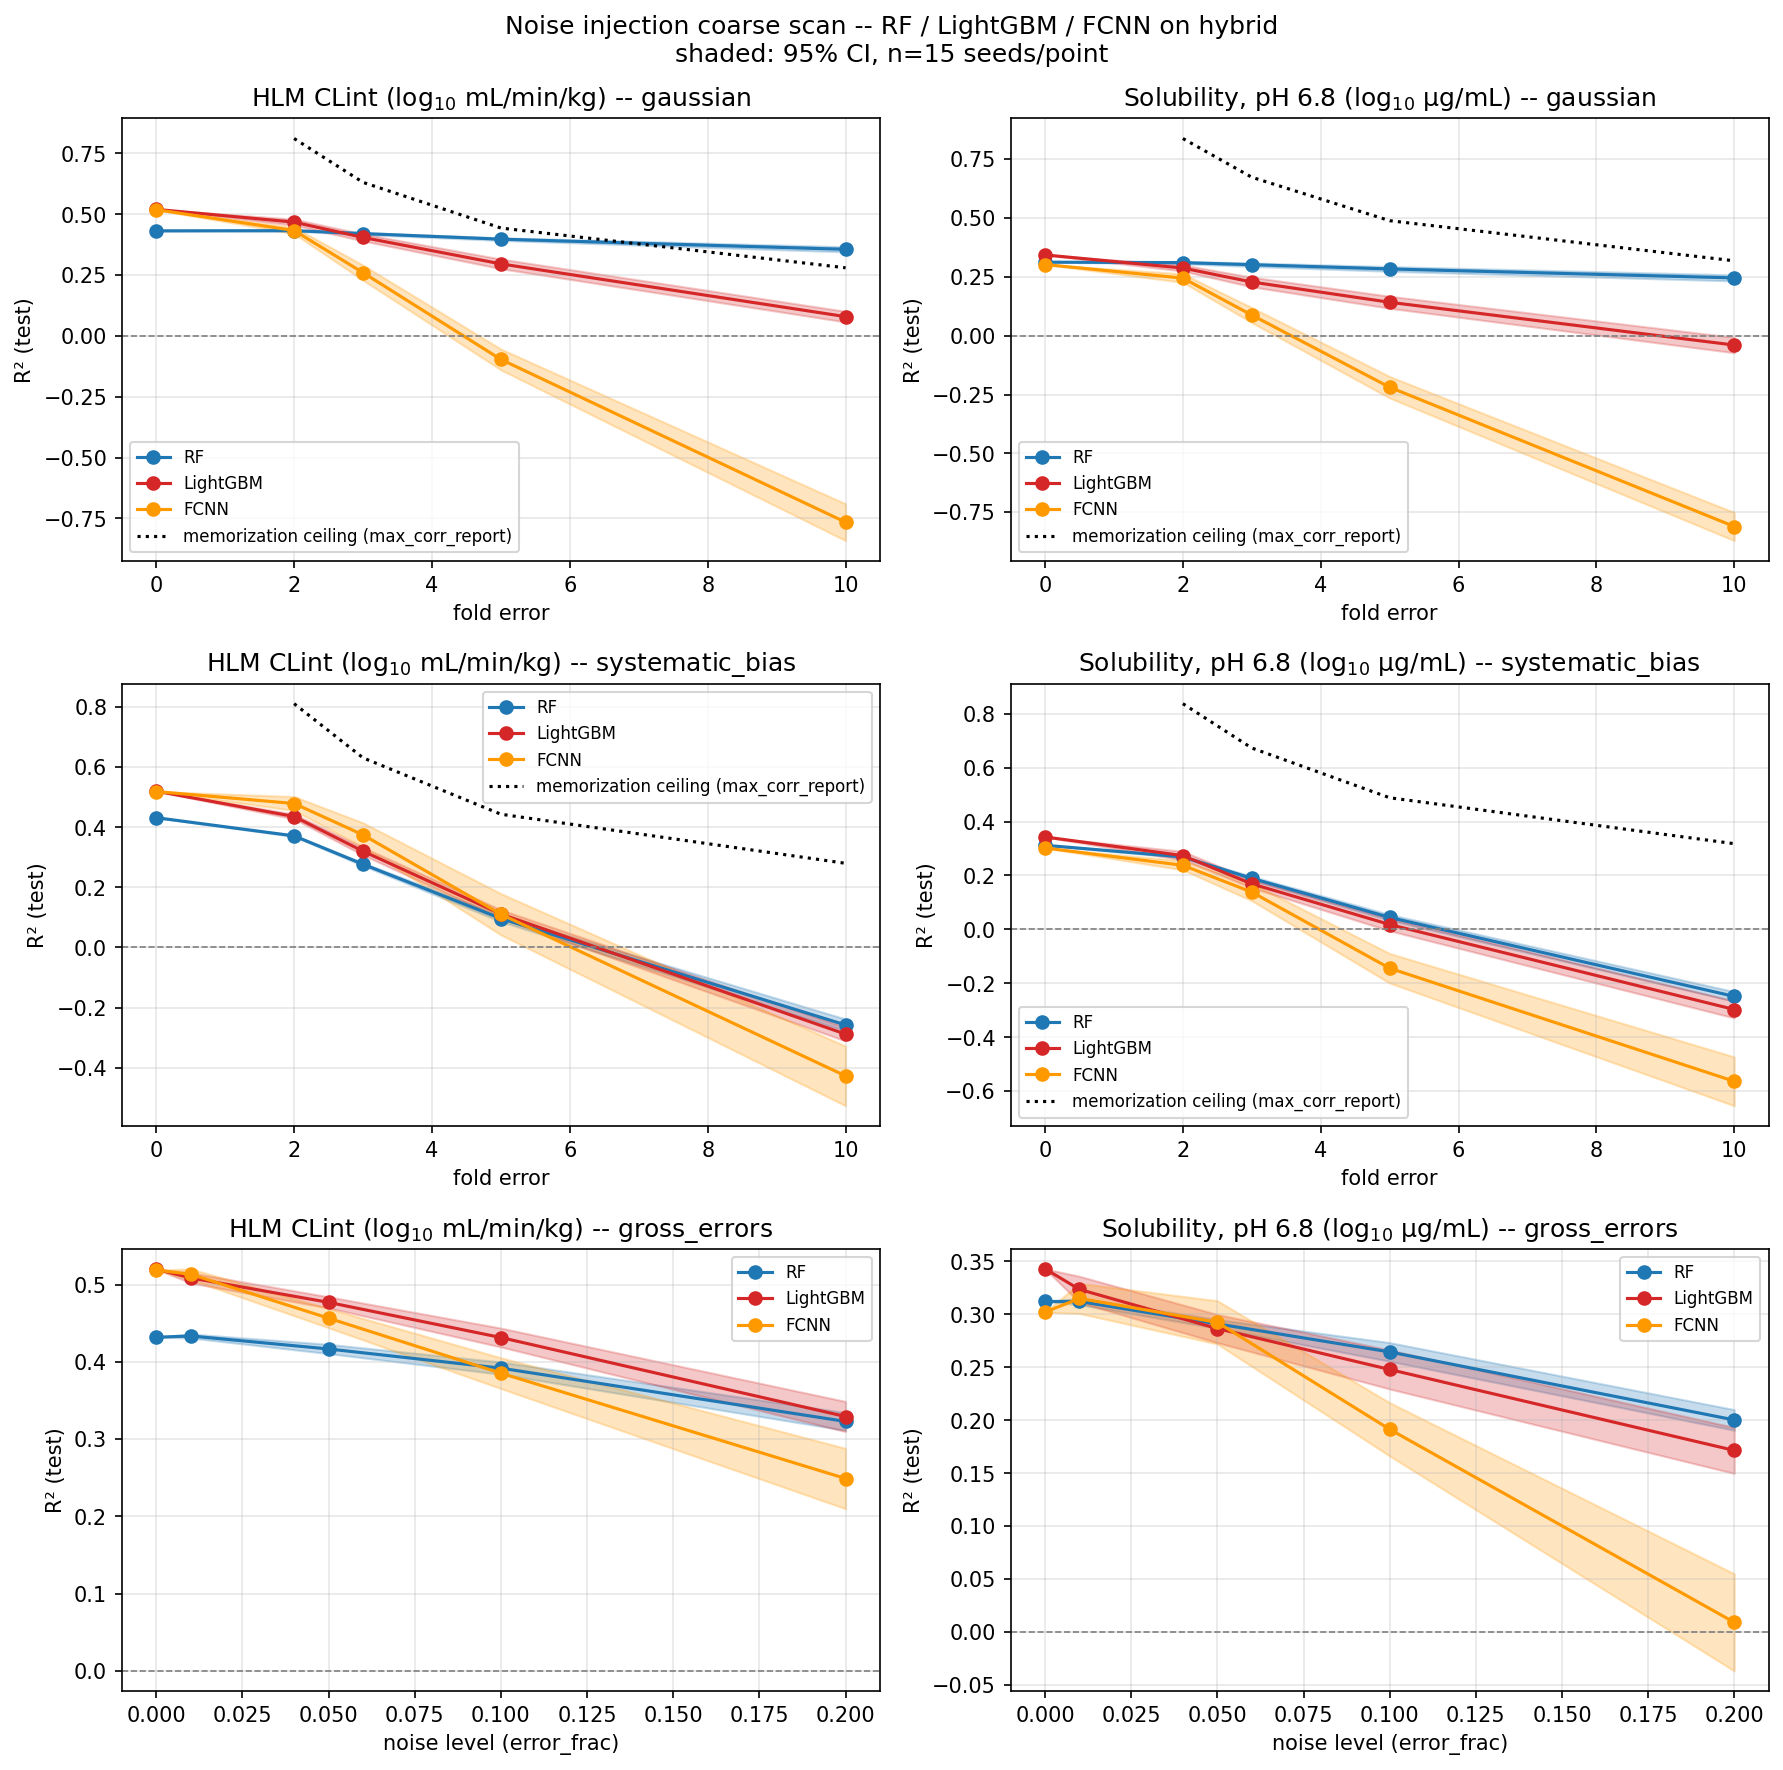
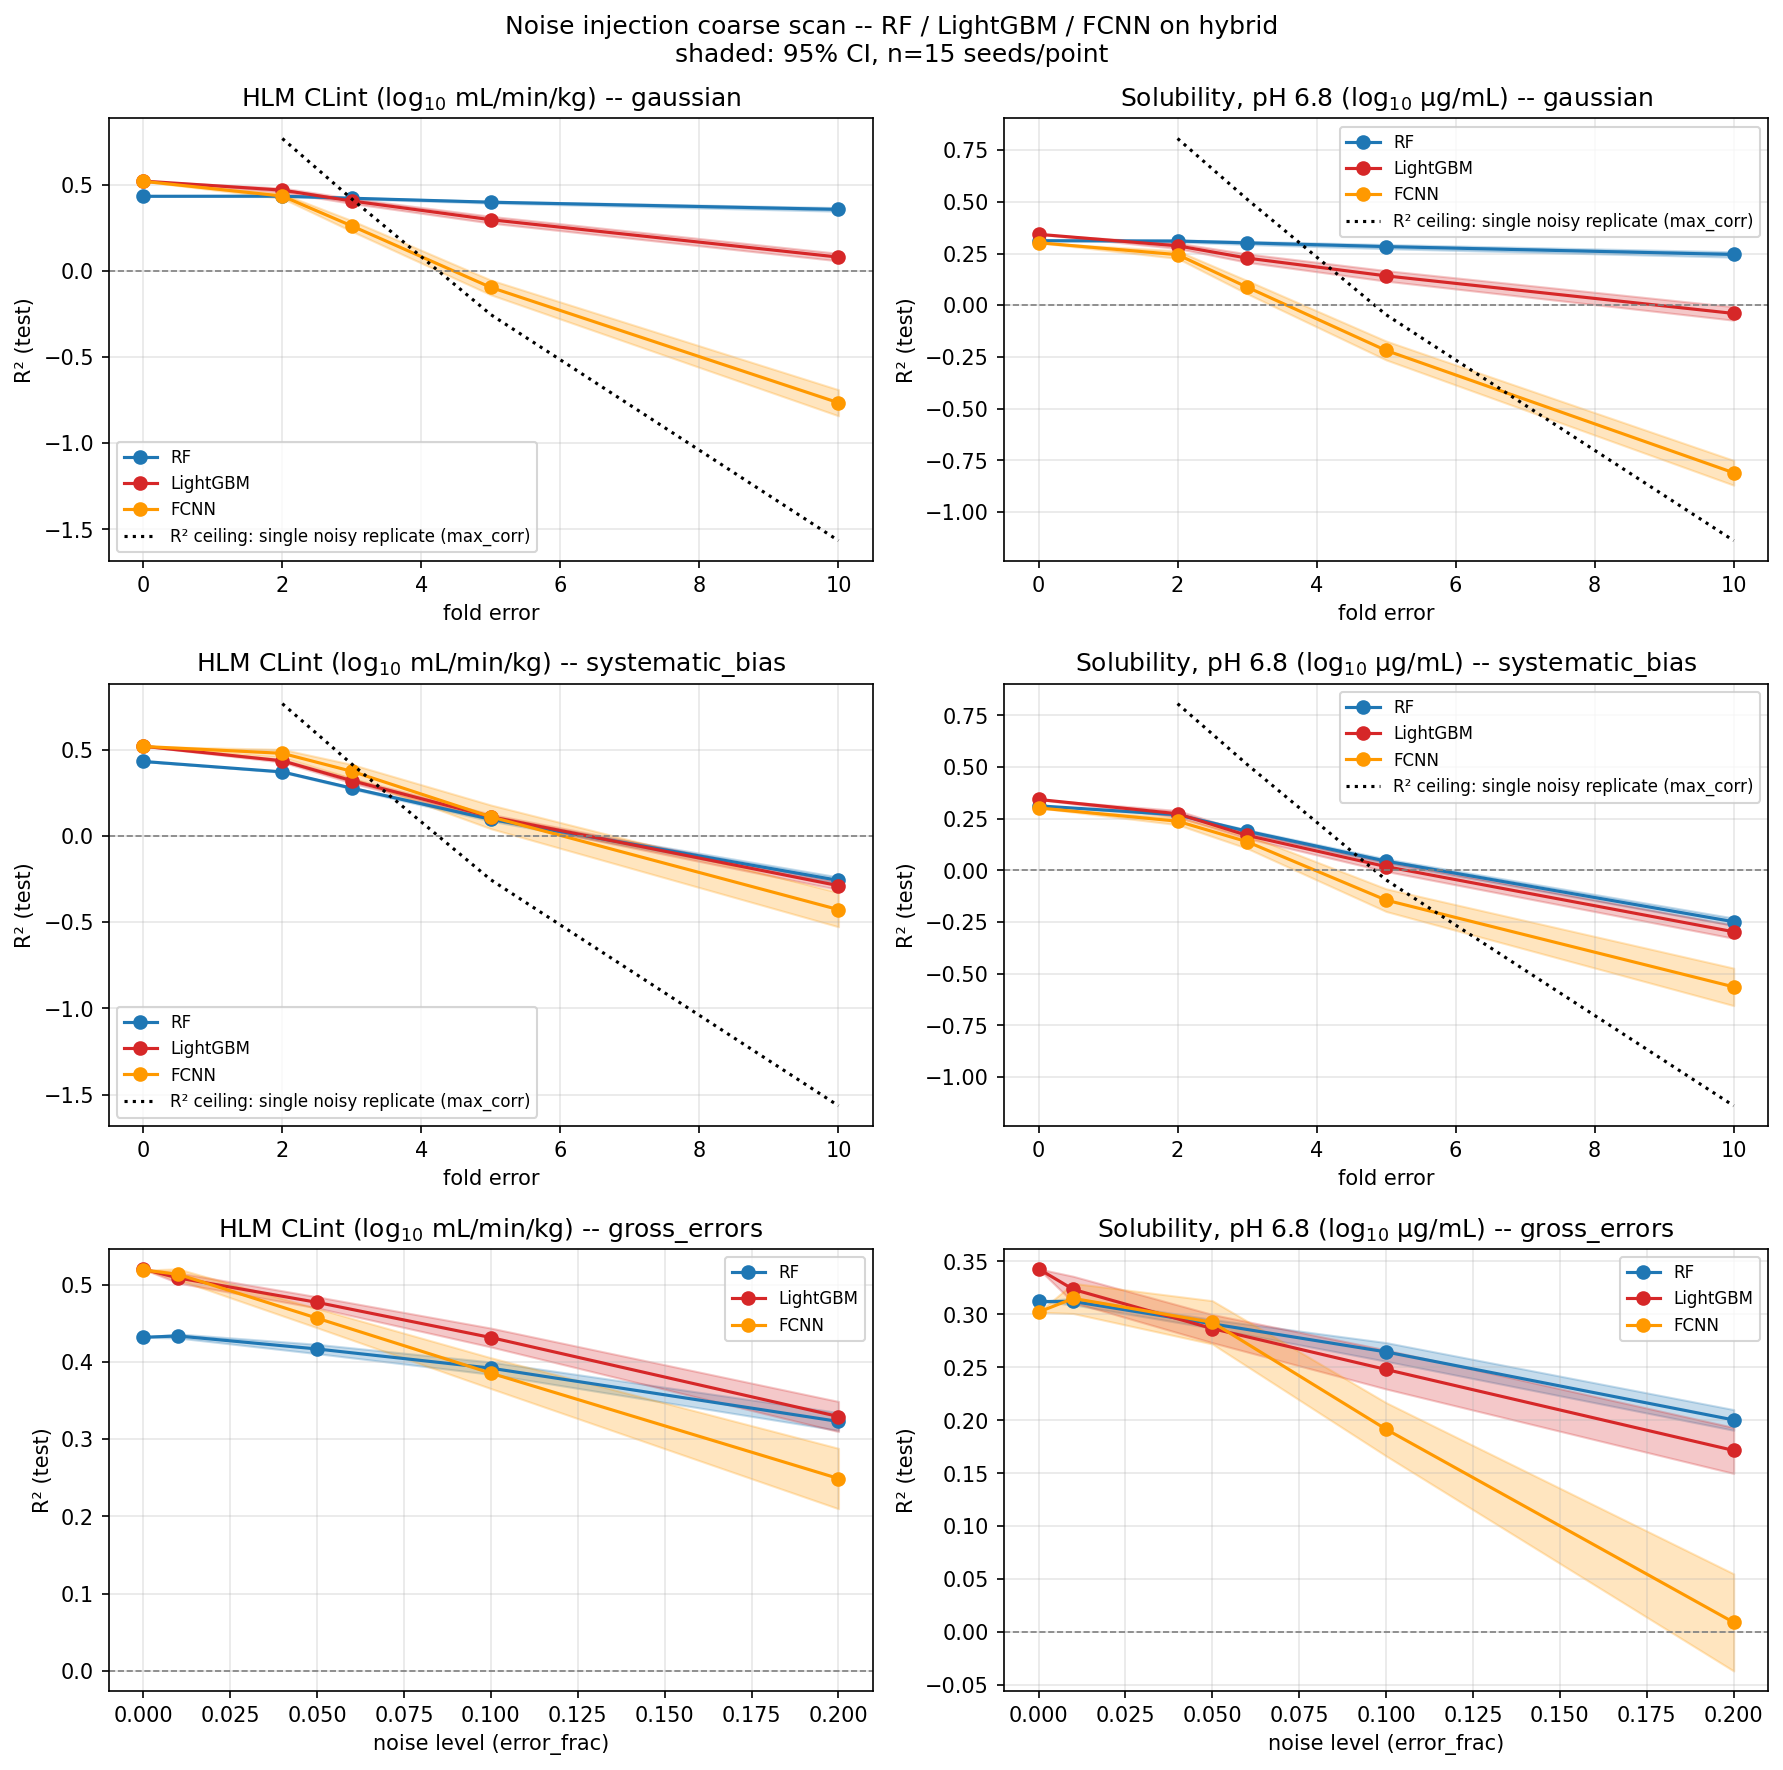
Fix noise-ceiling/model-curve metric mismatch in 04_adme_noise.ipynb
max_corr_report's ceiling overlay (squared Pearson r) and the model curves
(sklearn r2_score) were different formulas plotted on one R2 axis. Add a
metric='pearson_r2'|'r2' option to max_corr_report and switch the notebook's
ceiling to metric='r2' throughout, matching evaluate_model's R2 column on
every panel. Clarify the legend label and correct the §3.5 explanation of
what the ceiling represents; log the fix (and a same-day correction of an
intermediate split-metric design) in ADR-005.

diff --git a/src/eda/eda.py b/src/eda/eda.py
@@ -4,6 +4,7 @@ import numpy as np
 import pandas as pd
 from rdkit import Chem
 from rdkit.Chem import rdFingerprintGenerator, DataStructs
+from sklearn.metrics import r2_score
 from useful_rdkit_utils import max_possible_correlation
 
 
@@ -30,17 +31,33 @@ def missing_value_report(df, endpoint_cols):
 FOLD_LEVELS = [2, 3, 5, 10]
 
 
-def max_corr_report(df, endpoint_cols, fold_levels=None, cycles=1000):
+def _r2_score_method(y_true, y_pred):
+    """Adapt sklearn's r2_score to the (score, ...) tuple contract max_possible_correlation expects."""
+    return (r2_score(y_true, y_pred), None)
+
+
+def max_corr_report(df, endpoint_cols, fold_levels=None, cycles=1000, metric="pearson_r2"):
     """Upper bound on achievable R² per endpoint at multiple assay noise levels.
 
     Follows Pat Walters' approach (Brown, Muchmore & Hajduk noise model): for each
     fold-change level, adds Gaussian noise of std=log10(fold) to the endpoint values
-    and computes mean Pearson r over `cycles` iterations, then squares to give R².
+    and compares the noisy realization against the original over `cycles` iterations.
+
+    metric="pearson_r2" (default): mean Pearson r across cycles, then squared — matches
+    the original Brown/Muchmore/Hajduk reproducibility framing (symmetric, calibration-blind;
+    two noisy views of the same underlying quantity, neither privileged as "truth").
+    metric="r2": mean sklearn r2_score(original, noisy) across cycles, used as-is (already
+    an R² value, not squared) — asymmetric and calibration-sensitive, for overlaying against
+    model curves that are themselves scored with r2_score (e.g. the systematic_bias noise
+    panel in 04_adme_noise.ipynb, where calibration damage is the point being measured).
 
     fold_levels: list of fold-change magnitudes to evaluate (default: [2, 3, 5, 10]).
     Returns a DataFrame with n (valid rows) + one R² column per fold level.
     """
     import numpy as np
+
+    if metric not in ("pearson_r2", "r2"):
+        raise ValueError(f"Unknown metric: {metric!r} (expected 'pearson_r2' or 'r2')")
 
     if fold_levels is None:
         fold_levels = FOLD_LEVELS
@@ -55,8 +72,13 @@ def max_corr_report(df, endpoint_cols, fold_levels=None, cycles=1000):
         else:
             vals_list = vals.tolist()
             for fold in fold_levels:
-                r = max_possible_correlation(vals_list, error=np.log10(fold), cycles=cycles)
-                row[f"{fold}-Fold"] = r ** 2
+                if metric == "pearson_r2":
+                    r = max_possible_correlation(vals_list, error=np.log10(fold), cycles=cycles)
+                    row[f"{fold}-Fold"] = r ** 2
+                else:
+                    row[f"{fold}-Fold"] = max_possible_correlation(
+                        vals_list, error=np.log10(fold), cycles=cycles, method=_r2_score_method,
+                    )
         rows.append(row)
     return pd.DataFrame(rows).set_index("endpoint")
 

diff --git a/DECISIONS.md b/DECISIONS.md
@@ -232,7 +232,7 @@ Secondary reasons:
 
 ## ADR-005 — Label Noise Model Definitions
 
-**Date**: 2026-07-21 (levels amended 2026-08-11; Gaussian/bias reparameterized to fold-error 2026-08-13)
+**Date**: 2026-07-21 (levels amended 2026-08-11; Gaussian/bias reparameterized to fold-error 2026-08-13; ceiling metric corrected to `r2_score` throughout 2026-08-25)
 **Status**: Decided
 **Decider**: Zarif
 
@@ -241,6 +241,14 @@ Secondary reasons:
 ### Context
 
 Three types of label noise are injected into `y_train` for the noise-injection experiments (`04_adme_noise.ipynb`), following the taxonomy of Landrum & Riniker. Each noise type models a distinct real-world assay imperfection. The exact formulations need to be pinned to avoid ambiguity in the writeup.
+
+**The `max_corr_report` ceiling now uses `r2_score` throughout, matching the model curves it's overlaid on (amended 2026-08-25).** The ceiling overlay (`04_adme_noise.ipynb` §3.5) was originally always squared-mean-Pearson-r (`max_possible_correlation`'s native output), plotted against model curves scored with sklearn's `r2_score` — two different formulas sharing one axis, an inconsistency worth fixing.
+
+**Correction, same day**: an intermediate version of this fix split the metric by noise type — Pearson r² for `gaussian` (justified as a "symmetric, calibration-blind reproducibility question, since both compared vectors are just noisy views of the same quantity"), `r2_score` for `systematic_bias` (justified by that noise type's constant label shift, which Pearson r² would under-penalize). That symmetry argument for `gaussian` didn't hold up: `max_corr_report`'s `vals` is the real recorded dataset value, not itself a noisy quantity — only `noisy_vals` (`vals` plus one simulated draw) is synthetic. The two are not interchangeable, so there was no principled reason to keep `gaussian` on a different formula from the rest of the notebook. **Final decision**: `metric='r2'` for both `gaussian` and `systematic_bias` (`gross_errors` has no ceiling overlay, unchanged). This has negligible numeric effect on `gaussian` specifically — `r2_score` and Pearson r² only diverge meaningfully when there's a systematic offset between the two vectors, which `gaussian` noise (zero-mean) doesn't introduce — while keeping one metric formula across the entire figure and matching `evaluate_model`'s `R2` column used everywhere else in the project, with no need for a separate `Pearson**2` column on any panel.
+
+`max_corr_report` (`src/eda/eda.py`) implements this via a `metric='pearson_r2'|'r2'` argument, defaulting to `'pearson_r2'` (the package's native behavior, preserved for any other caller) — `04_adme_noise.ipynb` explicitly passes `metric='r2'`. `metric='r2'` uses sklearn `r2_score(vals, noisy_vals)` averaged over cycles directly (already an R² value, not squared again), which also happens to match Pat Walters' original raw notebook (`maximum_correlation.ipynb`, `r2_score` per cycle) rather than the later `useful_rdkit_utils` package's Pearson-r default.
+
+This is a deliberate departure from Pat Walters' original notebook/package, which uses Pearson r throughout for a single reproducibility question. Implemented via a `metric` argument on `max_corr_report` (`src/eda/eda.py`), defaulting to `'pearson_r2'` (existing callers unaffected).
 
 **Levels are coarse-scan anchors, not final reported values** (amended 2026-08-11): the levels below are used as a coarse scan (mirrors `03_adme_data_quantity.ipynb`'s fraction methodology) — run the full grid at low seed count, use a fixed-threshold pass to locate each `(endpoint, model, noise_type)` curve's collapse point empirically, then zoom in below the knee with a finer grid and more seeds for the reported curves.
 
